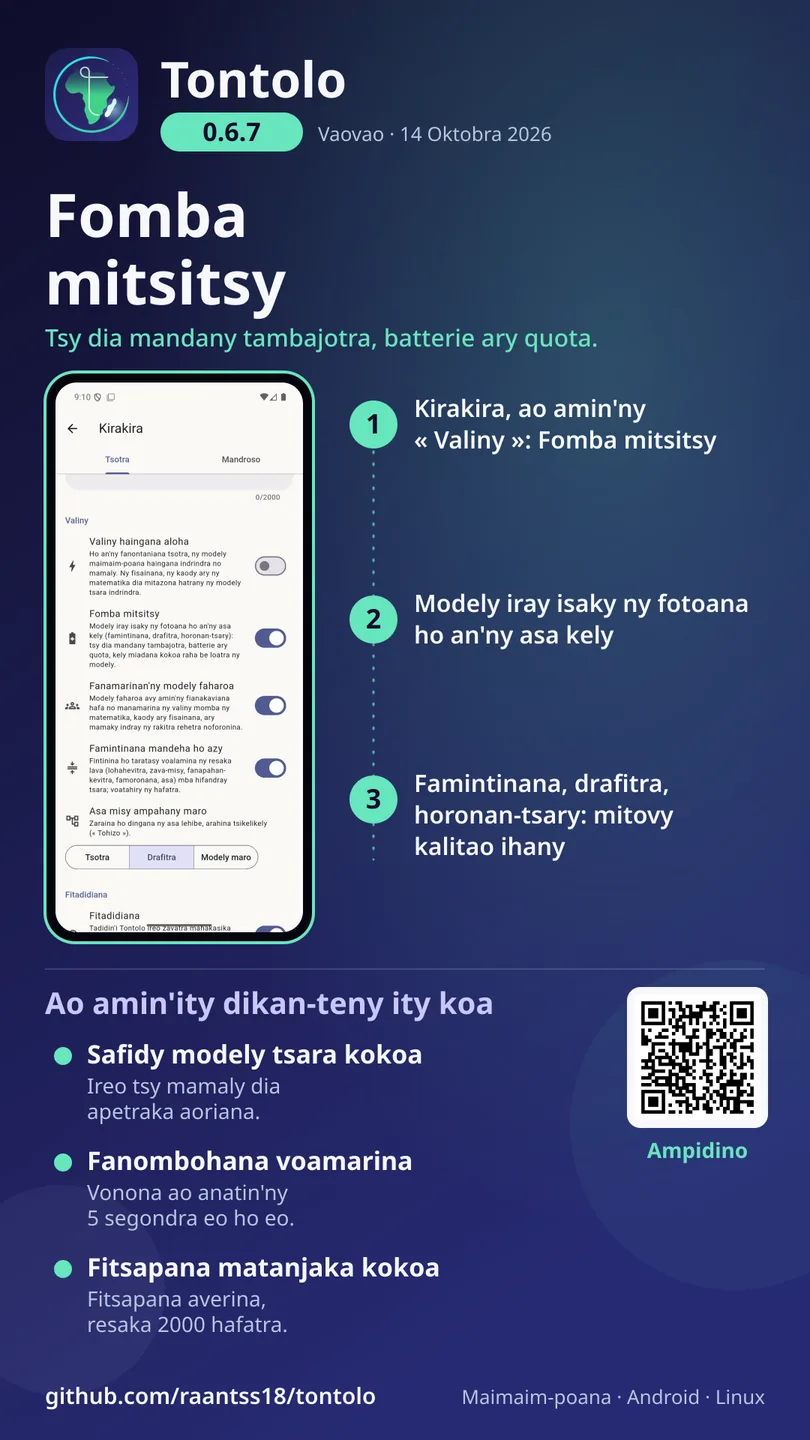
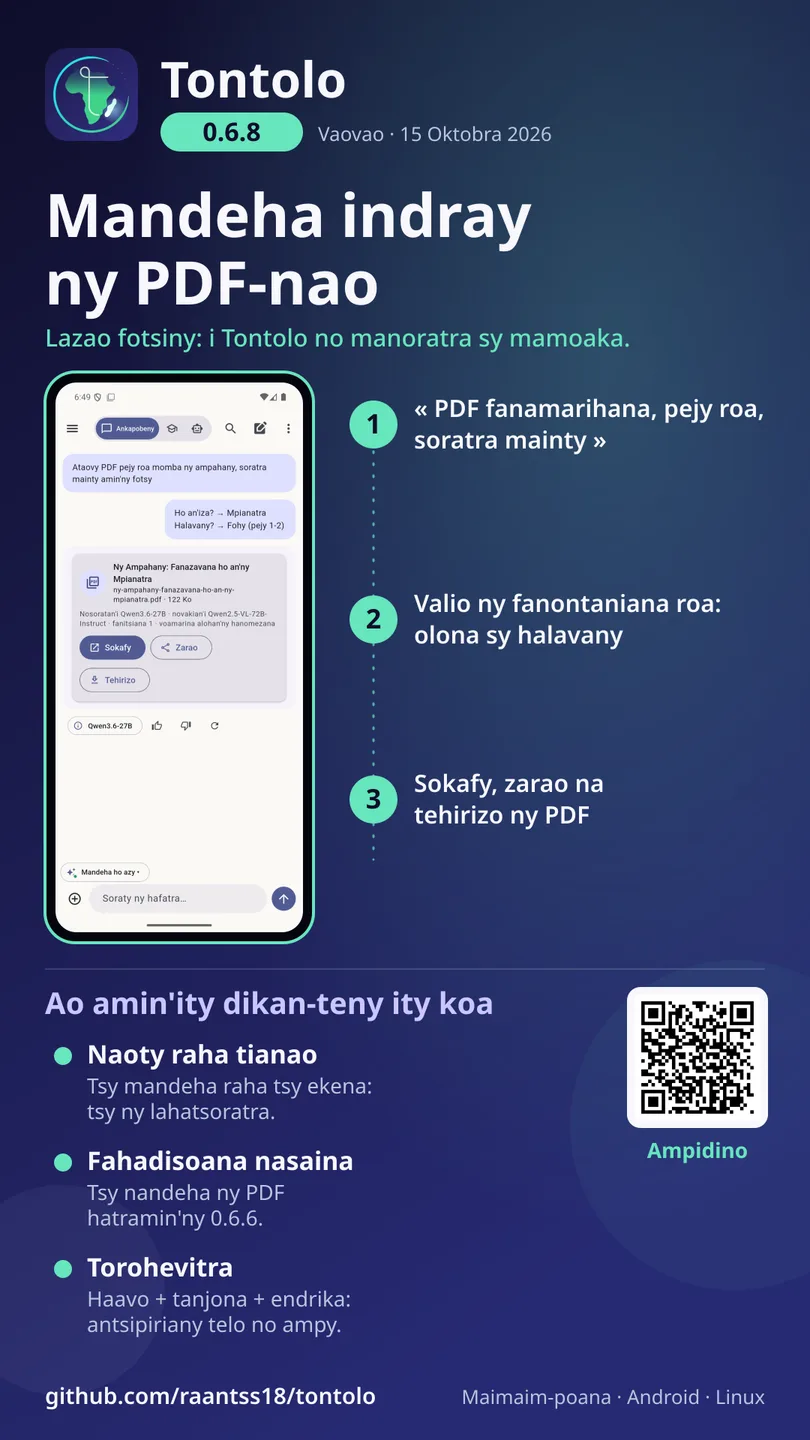
chore(release): v0.6.8 — PDF rétabli sur téléphone, notes collectives en option

diff --git a/app/lib/core/stats.dart b/app/lib/core/stats.dart
@@ -1,11 +1,16 @@
 // Statistiques minimales : langue, région de la langue du téléphone et version seulement.
-// Aucun identifiant, compteur, note, texte, nom, clé personnelle ni position.
+// Aucun identifiant, compteur, texte, nom, clé personnelle ni position.
+// Les notes 👍/👎 (modèle, type de demande, note, raison ; jamais le texte) ne sont partagées que
+// si l'utilisateur active l'option « Partager mes notes » ; elles portent alors un identifiant
+// aléatoire d'installation, pour qu'une réponse ne compte qu'une fois.
 import 'dart:convert';
 import 'dart:io';
+import 'dart:math';
 
 import 'package:flutter/foundation.dart';
 import 'package:http/http.dart' as http;
 
+import 'backend.dart';
 import 'prefs.dart';
 import 'updater.dart' show appVersion;
 
@@ -20,6 +25,84 @@ class Stats {
   /// Compteur strictement local ; absent du corps envoyé.
   static void countMessage(Prefs prefs) => prefs.usageCount = prefs.usageCount + 1;
 
+  // --- Notes 👍 / 👎 : modèle, type de demande, note, raison. Jamais de texte. -------------
+
+  static List<Map<String, dynamic>> pendingRatings(Prefs prefs) {
+    try {
+      return (jsonDecode(prefs.pendingRatings) as List).cast<Map<String, dynamic>>();
+    } catch (_) {
+      return [];
+    }
+  }
+
+  /// Ajoute (ou remplace, si l'avis change avant l'envoi) la note d'une réponse ; 0 l'annule.
+  static void queueRating(Prefs prefs, {required String answerId, required String model,
+      required String category, required int rating, String reason = '', bool cached = false}) {
+    final list = pendingRatings(prefs)..removeWhere((r) => r['answer_id'] == answerId);
+    if (!prefs.shareRatings) return; // option désactivée : l'avis reste local
+    if (prefs.sentRatings.contains(answerId)) return; // déjà partagée : l'avis local suffit
+    if (rating != 0 && RegExp(r'^[0-9a-f]{32}$').hasMatch(answerId) && model.isNotEmpty) {
+      list.add({
+        'answer_id': answerId, 'model': model, 'category': category, 'rating': rating,
+        'reason': reason, 'cached': cached,
+      });
+    }
+    prefs.pendingRatings = jsonEncode(list.length > 500 ? list.sublist(list.length - 500) : list);
+  }
+
+  static String _newId() {
+    final r = Random.secure();
+    return List.generate(16, (_) => r.nextInt(256).toRadixString(16).padLeft(2, '0')).join();
+  }
+
+  static Map<String, String> get _headers => {
+        'apikey': _statsKey,
+        'Authorization': 'Bearer $_statsKey',
+        'Content-Type': 'application/json',
+      };
+
+  /// Envoie les notes en attente : d'un bloc ; en cas de refus (doublon), une par une.
+  static Future<void> _sendRatings(Prefs prefs) async {
+    final list = pendingRatings(prefs);
+    if (list.isEmpty) return;
+    final base = {
+      'install_id': prefs.installId, 'app_version': appVersion,
+      'platform': Platform.operatingSystem, 'app_locale': prefs.locale,
+    };
+    Future<int> post(Object body) async => (await http
+            .post(Uri.parse('$_statsUrl/rest/v1/ratings'),
+                headers: {..._headers, 'Prefer': 'return=minimal'}, body: jsonEncode(body))
+            .timeout(const Duration(seconds: 20)))
+        .statusCode;
+    final sent = <String>[];
+    final status = await post([for (final x in list) {...base, ...x}]);
+    if (status >= 200 && status < 300) {
+      sent.addAll(list.map((x) => '${x['answer_id']}'));
+    } else if (status == 409 || status == 400) {
+      for (final x in list) {
+        final s = await post({...base, ...x});
+        if (s < 500) sent.add('${x['answer_id']}'); // acceptée, ou refusée pour de bon
+      }
+    }
+    if (sent.isEmpty) return;
+    final all = [...prefs.sentRatings, ...sent];
+    prefs.sentRatings = all.length > 2000 ? all.sublist(all.length - 2000) : all;
+    prefs.pendingRatings = jsonEncode(pendingRatings(prefs)..removeWhere((r) => sent.contains(r['answer_id'])));
+  }
+
+  /// Notes collectives (solde des appareils par modèle et type de demande), transmises au cœur
+  /// qui en tire un bonus ou malus borné.
+  static Future<void> _pullScores(Backend backend) async {
+    final r = await http
+        .post(Uri.parse('$_statsUrl/rest/v1/rpc/model_scores'), headers: _headers, body: '{}')
+        .timeout(const Duration(seconds: 20));
+    if (r.statusCode != 200) return;
+    final rows = jsonDecode(utf8.decode(r.bodyBytes));
+    if (rows is List && backend.state == BackendState.ready) {
+      await backend.sendJson('PUT', '/tontolo/feedback/global', {'scores': rows});
+    }
+  }
+
   /// Liste blanche exacte, également montrée dans les réglages.
   static Map<String, Object> payload(Prefs prefs) {
     final parts = Platform.localeName.split(RegExp('[_.-]'));
@@ -32,10 +115,12 @@ class Stats {
   }
 
   /// Une tentative par jour au plus, sans envoi de la file de notes des anciennes versions.
-  static Future<void> maybeSend(Prefs prefs, {http.Client? client,
+  static Future<void> maybeSend(Prefs prefs, {http.Client? client, Backend? backend,
       String statsUrl = _statsUrl, String statsKey = _statsKey}) async {
-    prefs.pendingRatings = '[]';
-    prefs.sentRatings = [];
+    if (!prefs.shareRatings) {
+      prefs.pendingRatings = '[]'; // option désactivée : rien n'est gardé pour l'envoi
+      prefs.sentRatings = [];
+    }
     if (!statsUrl.startsWith('https://') || statsKey.isEmpty || !prefs.shareStats) return;
     final today = DateTime.now().toUtc().difference(DateTime.utc(2026)).inDays;
     if (prefs.lastStatsDay == today) return;
@@ -46,6 +131,13 @@ class Stats {
           headers: {'apikey': statsKey, 'Authorization': 'Bearer $statsKey',
             'Content-Type': 'application/json', 'Prefer': 'return=minimal'},
           body: jsonEncode(payload(prefs))).timeout(const Duration(seconds: 15));
+      if (prefs.shareRatings && client == null) {
+        if (prefs.installId.isEmpty) prefs.installId = _newId();
+        await _sendRatings(prefs).catchError((Object e) => debugPrint('Notes non envoyées : $e'));
+        if (backend != null) {
+          await _pullScores(backend).catchError((Object e) => debugPrint('Notes collectives : $e'));
+        }
+      }
     } catch (_) {
       debugPrint('Statistiques non envoyées.');
     } finally {

diff --git a/app/lib/l10n/strings.dart b/app/lib/l10n/strings.dart
@@ -40,6 +40,8 @@ const Map<String, Map<String, String>> _t = {
     'share_stats': 'Statistiques anonymes',
     'share_stats_help': 'Aide l\'auteur à améliorer Tontolo : version, langue et pays approximatif, une fois par jour. Jamais vos messages ni vos images.',
     'stats_see': 'Voir ce qui est envoyé',
+    'share_ratings': 'Partager mes notes 👍/👎',
+    'share_ratings_help': 'Désactivé par défaut. Si vous l\'activez : modèle, type de demande, note et raison (jamais le texte), avec un numéro d\'installation aléatoire pour ne compter chaque réponse qu\'une fois. Aide à classer les modèles gratuits.',
     'stats_notice': 'Tontolo envoie des statistiques anonymes (jamais vos messages) pour aider son auteur. Désactivable dans Réglages.',
     'author': 'Auteur',
     'author_role': 'Conception et développement',
@@ -706,7 +708,7 @@ const Map<String, Map<String, String>> _t = {
     'why_offline': 'offline: on-device model',
     'share_stats': 'Anonymous statistics',
     'share_stats_help': 'Helps the author improve Tontolo: version, language and approximate country, once a day. Never your messages or images.',
-    'stats_see': 'See what is sent',
+    'share_ratings': 'Share my 👍/👎 ratings', 'share_ratings_help': 'Off by default. If you turn it on: model, request type, rating and reason (never the text), with a random installation number so each answer counts once. Helps rank the free models.', 'stats_see': 'See what is sent',
     'stats_notice': 'Tontolo sends anonymous statistics (never your messages) to help its author. You can turn this off in Settings.',
     'author': 'Author',
     'author_role': 'Design and development',
@@ -1275,6 +1277,8 @@ const Map<String, Map<String, String>> _t = {
     'share_stats': 'Antontan\'isa tsy mitonona anarana',
     'share_stats_help': 'Manampy ny mpamorona hanatsara an\'i Tontolo: dikan-teny, fiteny ary firenena, indray mandeha isan\'andro. Tsy alefa mihitsy ny hafatrao na ny sarinao.',
     'stats_see': 'Jereo izay alefa',
+    'share_ratings': 'Zarao ny naotako 👍/👎',
+    'share_ratings_help': 'Tsy mandeha raha tsy ekenao. Raha ampandehanao: ny modely, ny karazana fangatahana, ny naoty ary ny antony (tsy ny lahatsoratra mihitsy), miaraka amin\'ny laharana kisendrasendra mba tsy hanisa indroa ny valiny iray. Manampy amin\'ny fanasokajiana ny modely maimaim-poana.',
     'stats_notice': 'Mandefa antontan\'isa tsy mitonona anarana i Tontolo (tsy alefa mihitsy ny hafatrao) hanampiana ny mpamorona azy. Azo atsahatra ao amin\'ny Kirakira.',
     'author': 'Mpamorona',
     'author_role': 'Famolavolana sy fanamboarana',

diff --git a/app/lib/core/whats_new.dart b/app/lib/core/whats_new.dart
@@ -14,6 +14,16 @@ class NewsItem {
 }
 
 const whatsNew = <String, List<NewsItem>>{
+  '0.6.8': [
+    NewsItem(Icons.picture_as_pdf_outlined, 'Les PDF marchent de nouveau sur téléphone',
+        'Demandez « fais-en un PDF de deux pages, texte noir sur fond blanc » : Tontolo le compose et le compile, même sans moteur LaTeX sur le téléphone (un service de compilation en ligne est utilisé, le texte du document y est envoyé).',
+        'PDFs work again on phones', 'Ask “make a two-page PDF, black text on white”: Tontolo writes and compiles it, even without a LaTeX engine on the phone (an online compile service is used; the document text is sent to it).',
+        mg: 'Mandeha indray ny PDF amin\'ny finday', mgText: 'Angataho hoe « ataovy PDF pejy roa, soratra mainty amin\'ny fotsy »: i Tontolo no manoratra sy mamoaka azy, na dia tsy misy LaTeX ao amin\'ny finday aza (serivisy an-tserasera no ampiasaina, alefa ao ny lahatsoratry ny antontan-taratasy).'),
+    NewsItem(Icons.thumbs_up_down_outlined, 'Partager mes notes, si vous voulez',
+        'Réglages › Partager mes notes 👍/👎 : désactivé par défaut. Activé, il envoie seulement le modèle, le type de demande, la note et la raison, jamais le texte.',
+        'Share my ratings, if you want', 'Settings › Share my 👍/👎 ratings: off by default. When on, it only sends the model, request type, rating and reason, never the text.',
+        mg: 'Zarao ny naotako, raha tianao', mgText: 'Kirakira › Zarao ny naotako 👍/👎: tsy mandeha raha tsy ekenao. Rehefa alefa dia ny modely, ny karazana fangatahana, ny naoty ary ny antony ihany no alefa, tsy ny lahatsoratra mihitsy.'),
+  ],
   '0.6.7': [
     NewsItem(Icons.battery_saver_outlined, 'Un mode économie',
         'Réglages › Personnalisation › Mode économie : Tontolo ne lance plus qu\'un modèle à la fois pour les petites tâches (résumés, plans, vidéos). Moins de réseau, de batterie et de quota.',

diff --git a/app/lib/core/chat_controller.dart b/app/lib/core/chat_controller.dart
@@ -576,7 +576,8 @@ class ChatController extends ChangeNotifier {
   }
 
   /// Note 👍 (1) / 👎 (-1) d'une réponse, 0 pour l'annuler (même note touchée deux fois).
-  /// Récompense ou pénalise le modèle sur l’appareil uniquement.
+  /// Récompense ou pénalise le modèle sur l'appareil ; partagée anonymement (modèle, type de
+  /// demande, note, raison — jamais le texte) SEULEMENT si « Partager mes notes » est activé.
   Future<bool> rate(ChatMessage m, int rating, {String reason = ''}) async {
     final uid = m.uid;
     if (uid == null) return false;
@@ -584,8 +585,13 @@ class ChatController extends ChangeNotifier {
     m.rating = rating;
     notifyListeners();
     try {
-      await backend.sendJson('POST', '/tontolo/feedback',
-          {'uid': uid, 'rating': rating, 'reason': reason});
+      final r = await backend.sendJson('POST', '/tontolo/feedback',
+          {'uid': uid, 'rating': rating, 'reason': reason}) as Map<String, dynamic>;
+      if (backend.prefs.shareRatings) {
+        Stats.queueRating(backend.prefs, answerId: uid, model: '${r['model'] ?? ''}',
+            category: '${r['category'] ?? 'chat'}', rating: rating, reason: reason,
+            cached: m.cachedFrom != null);
+      }
       return true;
     } catch (_) {
       m.rating = previous; // ancien cœur ou réponse introuvable : rien n'a changé

diff --git a/app/test/stats_test.dart b/app/test/stats_test.dart
@@ -10,6 +10,7 @@ import 'package:tontolo/core/prefs.dart';
 import 'package:tontolo/core/stats.dart';
 
 void main() {
+  ratingsOptIn();
   test('payload limité aux champs anonymes', () async {
     SharedPreferences.setMockInitialValues({});
     final prefs = await Prefs.load();
@@ -66,5 +67,21 @@ void main() {
         statsUrl: 'https://stats.example', statsKey: 'public-anon');
     expect(requests, 0);
     client.close();
+  });
+}
+
+void ratingsOptIn() {
+  test('notes 👍/👎 : gardées seulement si l\'option est activée', () async {
+    SharedPreferences.setMockInitialValues({});
+    final prefs = await Prefs.load();
+    final id = 'a' * 32;
+    Stats.queueRating(prefs, answerId: id, model: 'groq:llama', category: 'code', rating: 1);
+    expect(Stats.pendingRatings(prefs), isEmpty); // option désactivée : rien en attente
+    prefs.shareRatings = true;
+    Stats.queueRating(prefs, answerId: id, model: 'groq:llama', category: 'code', rating: -1, reason: 'too_long');
+    expect(Stats.pendingRatings(prefs).single.keys.toSet(),
+        {'answer_id', 'model', 'category', 'rating', 'reason', 'cached'});
+    Stats.queueRating(prefs, answerId: '../x', model: 'm', category: 'chat', rating: 1);
+    expect(Stats.pendingRatings(prefs), hasLength(1)); // identifiant invalide refusé
   });
 }

diff --git a/app/lib/ui/settings_screen.dart b/app/lib/ui/settings_screen.dart
@@ -155,6 +155,13 @@ class _Simple extends StatelessWidget {
           value: prefs.shareStats,
           onChanged: (v) => prefs.shareStats = v,
         ),
+        SwitchListTile(
+          secondary: const Icon(Icons.thumbs_up_down_outlined),
+          title: Text(context.t('share_ratings')),
+          subtitle: Text(context.t('share_ratings_help')),
+          value: prefs.shareRatings,
+          onChanged: (v) => prefs.shareRatings = v,
+        ),
         ListTile(
           dense: true,
           leading: const SizedBox(width: 24),
@@ -163,7 +170,7 @@ class _Simple extends StatelessWidget {
             context: context,
             builder: (context) => AlertDialog(
               title: Text(context.t('stats_see')),
-              content: SelectableText(const JsonEncoder.withIndent('  ').convert(Stats.payload(prefs)),
+              content: SelectableText(const JsonEncoder.withIndent('  ').convert({...Stats.payload(prefs), if (prefs.shareRatings) 'ratings': Stats.pendingRatings(prefs)}),
                   style: const TextStyle(fontFamily: 'monospace', fontSize: 12)),
               actions: [TextButton(onPressed: () => Navigator.pop(context), child: Text(context.t('got_it')))],
             ),

diff --git a/app/lib/core/prefs.dart b/app/lib/core/prefs.dart
@@ -65,6 +65,8 @@ class Prefs extends ChangeNotifier {
 
   bool get autoUpdate => _sp.getBool('autoUpdate') ?? true;
   // Statistiques anonymes d'utilisation (activées par défaut, annoncées, désactivables).
+  bool get shareRatings => _sp.getBool('shareRatings') ?? false;
+  set shareRatings(bool v) => _set(() => _sp.setBool('shareRatings', v));
   bool get shareStats => _sp.getBool('shareStats') ?? true;
   set shareStats(bool v) => _set(() => _sp.setBool('shareStats', v));
   String get installId => _sp.getString('installId') ?? '';

diff --git a/app/lib/main.dart b/app/lib/main.dart
@@ -47,7 +47,7 @@ Future<void> main() async {
     activity.start();
     syncSoon(prefs, account, cloud);
     updater.startAuto();
-    Stats.maybeSend(prefs);
+    Stats.maybeSend(prefs, backend: backend);
     // Langue de réponse par défaut du moteur = langue de l'interface.
     if (backend.state == BackendState.ready) {
       backend.sendJson('PUT', '/tontolo/settings', {'language': prefs.locale}).catchError((_) => null);

diff --git a/app/lib/core/updater.dart b/app/lib/core/updater.dart
@@ -23,7 +23,7 @@ import '../l10n/strings.dart';
 import 'prefs.dart';
 import 'update_key.dart';
 
-const appVersion = '0.6.7';
+const appVersion = '0.6.8';
 const repo = 'raantss18/tontolo';
 
 enum UpdateStatus { idle, checking, downloading, ready, failed, upToDate }

diff --git a/core/tontolo/creator/latex.py b/core/tontolo/creator/latex.py
@@ -13,6 +13,7 @@ import re
 import shutil
 import tempfile
 from pathlib import Path
+from typing import Any
 
 import httpx
 
@@ -128,10 +129,27 @@ async def _latexonline(source: str, engine: str) -> tuple[bytes, str]:
 
 
 async def compile_pdf(source: str) -> tuple[bytes, str, str]:
-    """(pdf, journal, service utilisé). Lève LatexError (non relançable = erreur du source)."""
-    if not sandbox.available():
-        raise LatexError(sandbox.unavailable_message())
-    pdf, log = await _local(source, engine_for(source))
-    if not pdf.startswith(b"%PDF"):
-        raise LatexError("fichier produit invalide")
-    return pdf, log, "local"
+    """(pdf, journal, service utilisé). Lève LatexError (non relançable = erreur du source).
+
+    Compilation locale seulement dans un bac à sable (bubblewrap) ; sans lui (Android), on
+    passe aux services en ligne (rétabli sur décision de l'utilisateur, 2026-10-15) : le source
+    du document y est envoyé, rien n'est exécuté chez l'utilisateur."""
+    engine = engine_for(source)
+    last: LatexError | None = None
+    backends: list[tuple[str, Any]] = []
+    if sandbox.available():
+        backends.append(("local", _local))
+    backends += [("latex.ytotech.com", _ytotech), ("latexonline.cc", _latexonline)]
+    for name, fn in backends:
+        if name == "latexonline.cc" and len(source) > 6000:
+            continue  # source passé dans l'URL : limité aux petits documents
+        try:
+            pdf, log = await fn(source, engine)
+            if not pdf.startswith(b"%PDF"):
+                raise LatexError("fichier produit invalide", retryable=True)
+            return pdf, log, name
+        except LatexError as exc:
+            if not exc.retryable:
+                raise  # erreur dans le document : inutile d'essayer un autre service
+            last = exc
+    raise last or LatexError("aucun service LaTeX disponible", retryable=True)

diff --git a/core/tests/test_workspace.py b/core/tests/test_workspace.py
@@ -326,16 +326,13 @@ def test_no_choice_card_after_an_answer_or_for_a_detailed_request(
     assert offered and offered[-1] is False
 
 
-def test_execution_capabilities_and_pdf_refusal_without_sandbox(client, monkeypatch):
+def test_execution_capabilities_without_sandbox(client, monkeypatch):
+    """Sans bubblewrap (Android) : pas de commandes ni de compilation locale, mais le PDF
+    reste possible par les services en ligne."""
     from tontolo.agent import mcp_client
 
     monkeypatch.setattr(mcp_client, 'bwrap_usable', lambda: None)
     caps = client.get('/tontolo/execution/capabilities').json()
-    assert caps['sandbox'] is caps['latex'] is caps['commands'] is False
+    assert caps['sandbox'] is caps['latex_local'] is caps['commands'] is False
+    assert caps['latex'] is True
     assert client.get('/tontolo/workspace').json()['commands'] is False
-    for lang in ('fr', 'en', 'mg'):
-        client.app.state.core.settings.language = lang
-        response = client.post('/tontolo/chat', json={
-            'content': 'Un document', 'category': 'file:pdf'})
-        assert response.status_code == 501
-        assert 'bubblewrap' in response.json()['detail']

diff --git a/core/tests/test_sandbox_required.py b/core/tests/test_sandbox_required.py
@@ -9,16 +9,15 @@ from tontolo.agent.workspace import Workspace
 from tontolo.creator import latex
 
 
-async def test_latex_refuses_without_sandbox_before_any_backend(monkeypatch):
+async def test_latex_without_sandbox_skips_local_and_uses_online(monkeypatch):
     monkeypatch.setattr(mcp_client, 'bwrap_usable', lambda: None)
     local = AsyncMock(return_value=(b'%PDF-test', ''))
-    remote = AsyncMock(return_value=(b'%PDF-test', ''))
+    remote = AsyncMock(return_value=(b'%PDF-online', ''))
     monkeypatch.setattr(latex, '_local', local)
     monkeypatch.setattr(latex, '_ytotech', remote)
-    with pytest.raises(latex.LatexError, match='bubblewrap'):
-        await latex.compile_pdf('\\documentclass{article}')
-    local.assert_not_awaited()
-    remote.assert_not_awaited()
+    pdf, _, service = await latex.compile_pdf('\\documentclass{article}')
+    assert pdf == b'%PDF-online' and service == 'latex.ytotech.com'
+    local.assert_not_awaited()  # jamais de compilation locale sans isolation
 
 
 async def test_commands_refused_and_hidden_without_sandbox(monkeypatch, tmp_path: Path):
